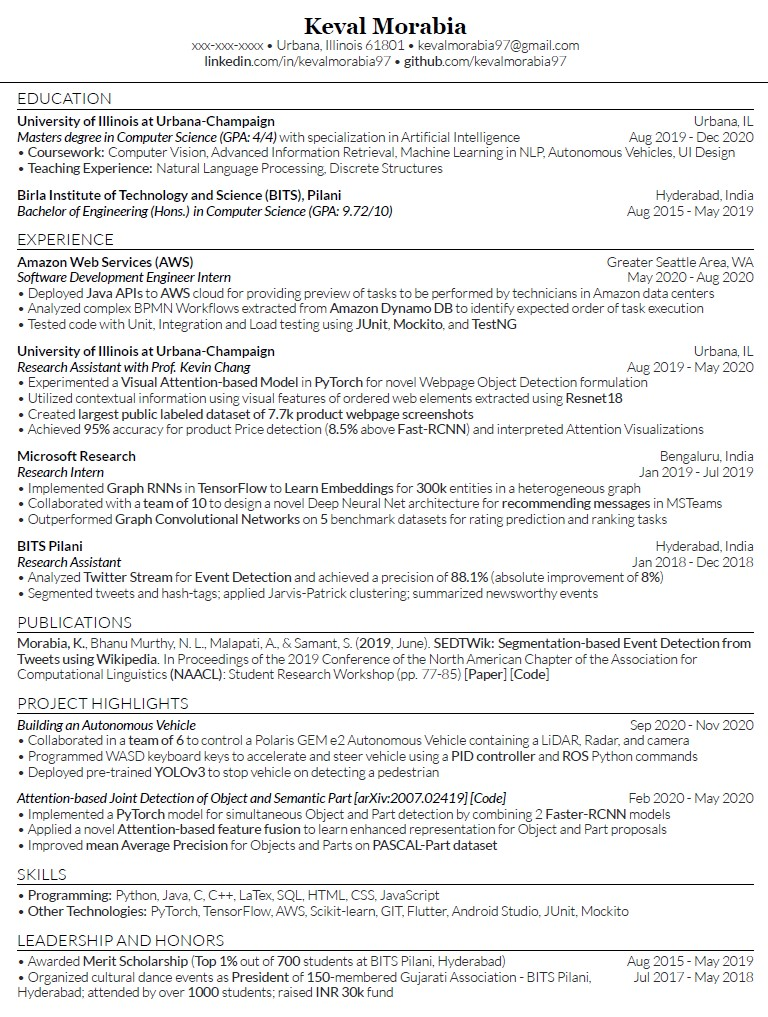
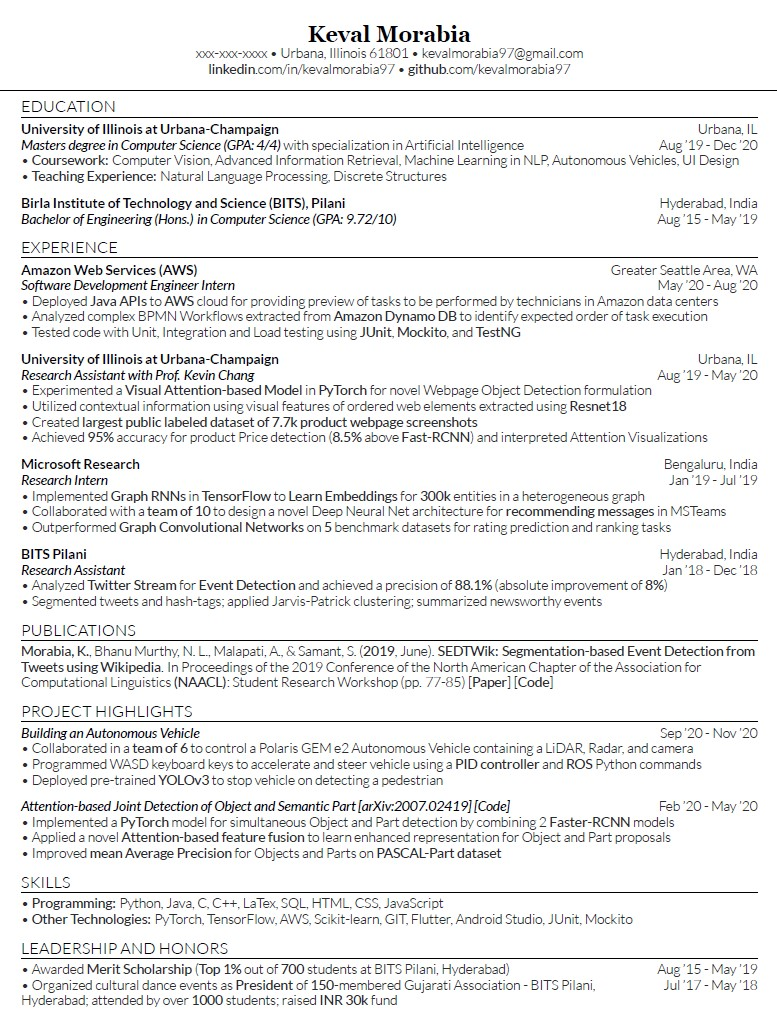
change date format

Changed region(s): [[0.0, 0.0, 1.0, 1.0], [0.8125, 0.9145, 1.0, 0.9754]]

diff --git a/Resume.tex b/Resume.tex
@@ -32,13 +32,13 @@
 \hrulefill
 
 \subsection{University of Illinois at Urbana-Champaign \hfill \normalfont Urbana, IL}
-\position{Masters degree in Computer Science (GPA: 4/4) \normalfont with specialization in Artificial Intelligence}{Aug 2019 - Dec 2020}
+\position{Masters degree in Computer Science (GPA: 4/4) \normalfont with specialization in Artificial Intelligence}{Aug '19 - Dec '20}
 \pt \textbf{Coursework:} Computer Vision, Advanced Information Retrieval, Machine Learning in NLP, Autonomous Vehicles, UI Design \\
 \pt \textbf{Teaching Experience:} Natural Language Processing, Discrete Structures
 \sectionsep
 
 \subsection{Birla Institute of Technology and Science (BITS), Pilani \hfill \normalfont Hyderabad, India}
-\position{Bachelor of Engineering (Hons.) in Computer Science (GPA: 9.72/10) \normalfont}{Aug 2015 - May 2019}
+\position{Bachelor of Engineering (Hons.) in Computer Science (GPA: 9.72/10) \normalfont}{Aug '15 - May '19}
 % \pt \textbf{Electives:} Artificial Intelligence, Machine Learning, Information Retrieval, Data Mining, Number Theory, Cryptography \\
 % \pt \textbf{Teaching Experience:} Data Mining, Object-oriented Programming
 \sectionsep
@@ -50,14 +50,14 @@
 \hrulefill 
 
 \subsection{Amazon Web Services (AWS) \hfill \normalfont Greater Seattle Area, WA}
-\position{Software Development Engineer Intern}{May 2020 - Aug 2020}
+\position{Software Development Engineer Intern}{May '20 - Aug '20}
 \pt Deployed \textbf{Java APIs} to \textbf{AWS} cloud for providing preview of tasks to be performed by technicians in Amazon data centers \\
 \pt Analyzed complex BPMN Workflows extracted from \textbf{Amazon Dynamo DB} to identify expected order of task execution \\
 \pt Tested code with Unit, Integration and Load testing using \textbf{JUnit}, \textbf{Mockito}, and \textbf{TestNG}
 \sectionsep
 
 \subsection{University of Illinois at Urbana-Champaign \hfill \normalfont Urbana, IL}
-\position{Research Assistant with \href{http://www.forwarddatalab.org/kevinccchang}{\textbf{Prof. Kevin Chang}}}{Aug 2019 - May 2020}
+\position{Research Assistant with \href{http://www.forwarddatalab.org/kevinccchang}{\textbf{Prof. Kevin Chang}}}{Aug '19 - May '20}
 \pt Experimented a \textbf{Visual Attention-based Model} in \textbf{PyTorch} for novel Webpage Object Detection formulation \\
 \pt Utilized contextual information using visual features of ordered web elements extracted using \textbf{Resnet18} \\  
 \pt Created \textbf{largest public labeled dataset of 7.7k product webpage screenshots} \\
@@ -65,14 +65,14 @@
 \sectionsep
 
 \subsection{Microsoft Research \hfill \normalfont Bengaluru, India}
-\position{Research Intern}{Jan 2019 - Jul 2019}
+\position{Research Intern}{Jan '19 - Jul '19}
 \pt Implemented \textbf{Graph RNNs} in \textbf{TensorFlow} to \textbf{Learn Embeddings} for \textbf{300k} entities in a heterogeneous graph \\
 \pt Collaborated with a \textbf{team of 10} to design a novel Deep Neural Net architecture for \textbf{recommending messages} in MSTeams \\
 \pt Outperformed \textbf{Graph Convolutional Networks} on \textbf{5} benchmark datasets for rating prediction and ranking tasks
 \sectionsep
 
 \subsection{BITS Pilani \hfill \normalfont Hyderabad, India}
-\position{Research Assistant}{Jan 2018 - Dec 2018} 
+\position{Research Assistant}{Jan '18 - Dec '18} 
 \pt Analyzed \textbf{Twitter Stream} for \textbf{Event Detection} and achieved a precision of \textbf{88.1\%} (absolute improvement of \textbf{8\%}) \\
 \pt Segmented tweets and hash-tags; applied Jarvis-Patrick clustering; summarized newsworthy events 
 \sectionsep
@@ -97,13 +97,13 @@
 % \pt Built an application in \textbf{JavaFX} for \textbf{Frequent Patterns \& Association Rule Mining} using Apriori algorithm \href{https://github.com/kevalmorabia97/FPARM-Frequent-Patterns-and-Association-Rule-Miner}{[\textbf{Code}]}
 
 %%%%% ELABORATED FORMAT %%%%%
-\position{Building an Autonomous Vehicle}{Sep 2020 - Nov 2020}
+\position{Building an Autonomous Vehicle}{Sep '20 - Nov '20}
 \pt Collaborated in a \textbf{team of 6} to control a Polaris GEM e2 Autonomous Vehicle containing a LiDAR, Radar, and camera \\
 \pt Programmed WASD keyboard keys to accelerate and steer vehicle using a \textbf{PID controller} and \textbf{ROS} Python commands \\
 \pt Deployed pre-trained \textbf{YOLOv3} to stop vehicle on detecting a pedestrian
 \sectionsep
 
-\position{Attention-based Joint Detection of Object and Semantic Part \href{https://arxiv.org/abs/2007.02419}{[\textbf{arXiv:2007.02419}]}  \href{https://github.com/kevalmorabia97/Object-and-Semantic-Part-Detection-pyTorch}{[\textbf{Code}]}}{Feb 2020 - May 2020}
+\position{Attention-based Joint Detection of Object and Semantic Part \href{https://arxiv.org/abs/2007.02419}{[\textbf{arXiv:2007.02419}]}  \href{https://github.com/kevalmorabia97/Object-and-Semantic-Part-Detection-pyTorch}{[\textbf{Code}]}}{Feb '20 - May '20}
 \pt Implemented a \textbf{PyTorch} model for simultaneous Object and Part detection by combining 2 \textbf{Faster-RCNN} models \\
 \pt Applied a novel \textbf{Attention-based feature fusion} to learn enhanced representation for Object and Part proposals \\
 \pt Improved \textbf{mean Average Precision} for Objects and Parts on \textbf{PASCAL-Part dataset}
@@ -130,14 +130,14 @@
 	\pt Awarded \textbf{Merit Scholarship} (\textbf{Top 1\%} out of \textbf{700} students at BITS Pilani, Hyderabad)
 \end{minipage}%
 \begin{minipage}[t]{.22\textwidth}
-	\hfill Aug 2015 - May 2019
+	\hfill Aug '15 - May '19
 \end{minipage}
 
 \begin{minipage}[t]{.78\textwidth}
 	\pt Organized cultural dance events as \textbf{President} of \textbf{150}-membered Gujarati Association - BITS Pilani, Hyderabad; attended by over \textbf{1000} students; raised \textbf{INR 30k} fund
 \end{minipage}%
 \begin{minipage}[t]{.22\textwidth}
-	\hfill Jul 2017 - May 2018
+	\hfill Jul '17 - May '18
 \end{minipage}
 
 %\sectionsep
